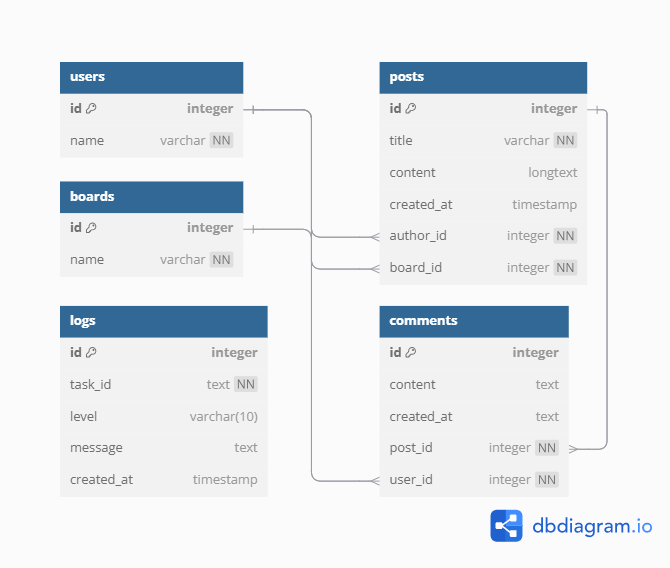
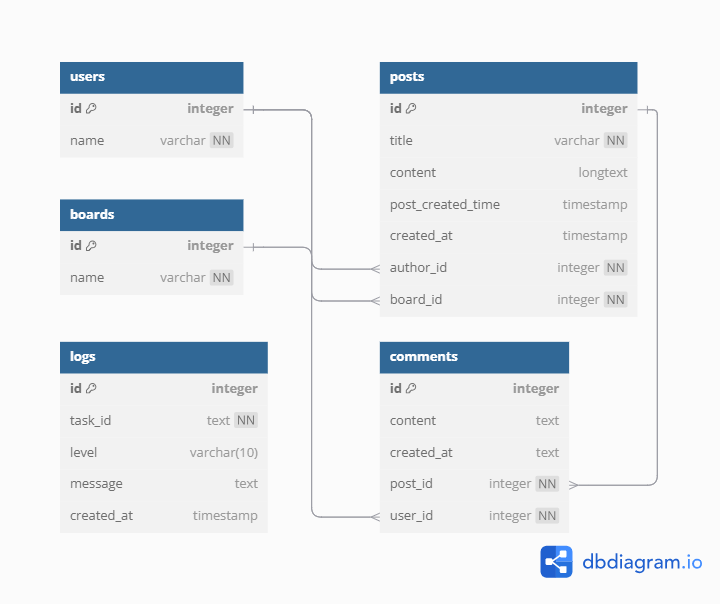
ptt+comment database

diff --git a/static/index.html b/static/index.html
@@ -73,6 +73,19 @@
 <script>
     const api_url = "http://localhost:8000/api";
 
+    function getAPIUrl() {
+        fetch("/api_url", {method: 'GET'})
+        .then(res => checkStatusCode(res))
+        .then(result => {
+            return result
+        })
+        return ""
+
+    }
+
+    const test = getAPIUrl();
+    console.log(test)
+
     function reload(msg = "完成！") {
         alert(msg);
         location.reload();

diff --git a/main.py b/main.py
@@ -10,7 +10,10 @@ from fastapi.staticfiles import StaticFiles
 # from starlette.responses import JSONResponse
 
 from api import ptt
+from dotenv import load_dotenv
 
+load_dotenv()
+PTT_API_URL = os.getenv("PTT_API_URL")
 app = FastAPI(
     title="PTT WebServer",
     description="這是一個查詢與修改PTT文章資料庫的API",
@@ -26,6 +29,11 @@ app.mount("/static", StaticFiles(directory=static_dir), name="static")
 @app.get("/", tags=["Index"])
 def read_index():
     return FileResponse("static/index.html")
+
+
+@app.get("/api_url")
+def ptt_api_url():
+    return {"url": PTT_API_URL}
 
 # # 模擬 呼叫第三方API
 # load_dotenv()

diff --git a/db/crud.py b/db/crud.py
@@ -212,7 +212,3 @@ def create_log_result(db: Session, task_id: str, message: str, level: str = "INF
     log = Log(task_id=task_id, message=message, level=level)
     db.add(log)
     db.commit()
-
-
-if __name__ == "__main__":
-    create_default()

diff --git a/model/ptt_content.py b/model/ptt_content.py
@@ -10,6 +10,8 @@ from db.database import Base
 tz = pytz.timezone("Asia/Taipei")
 datetime_now = lambda: datetime.now(tz)
 
+# ToDo: Comment 改欄位了!!!
+
 
 class User(Base):
     __tablename__ = 'users'
